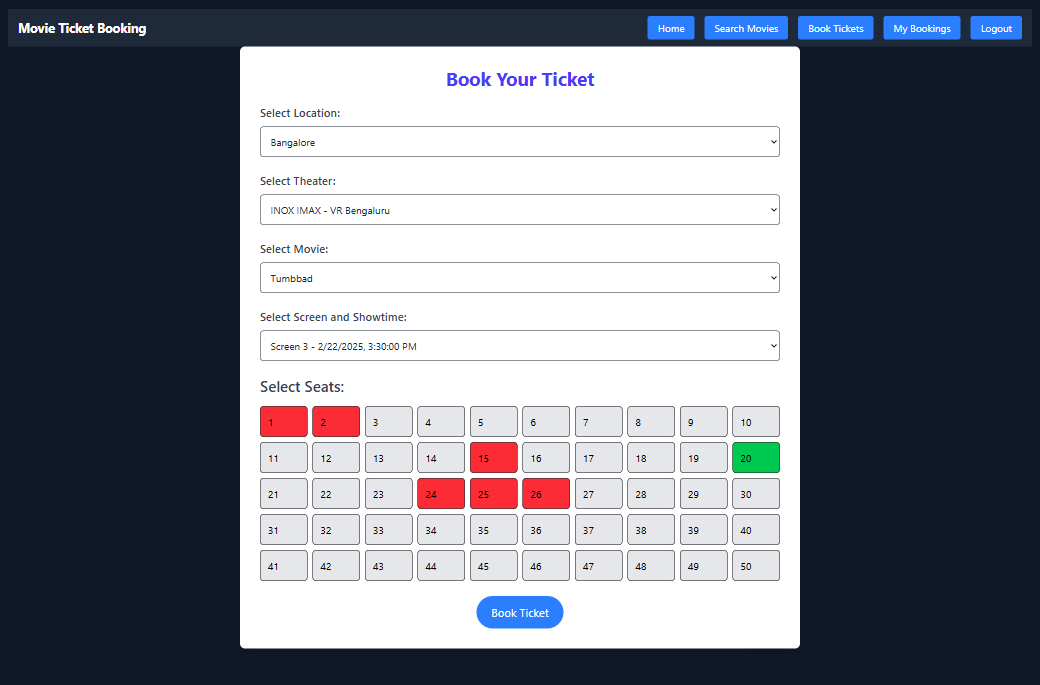
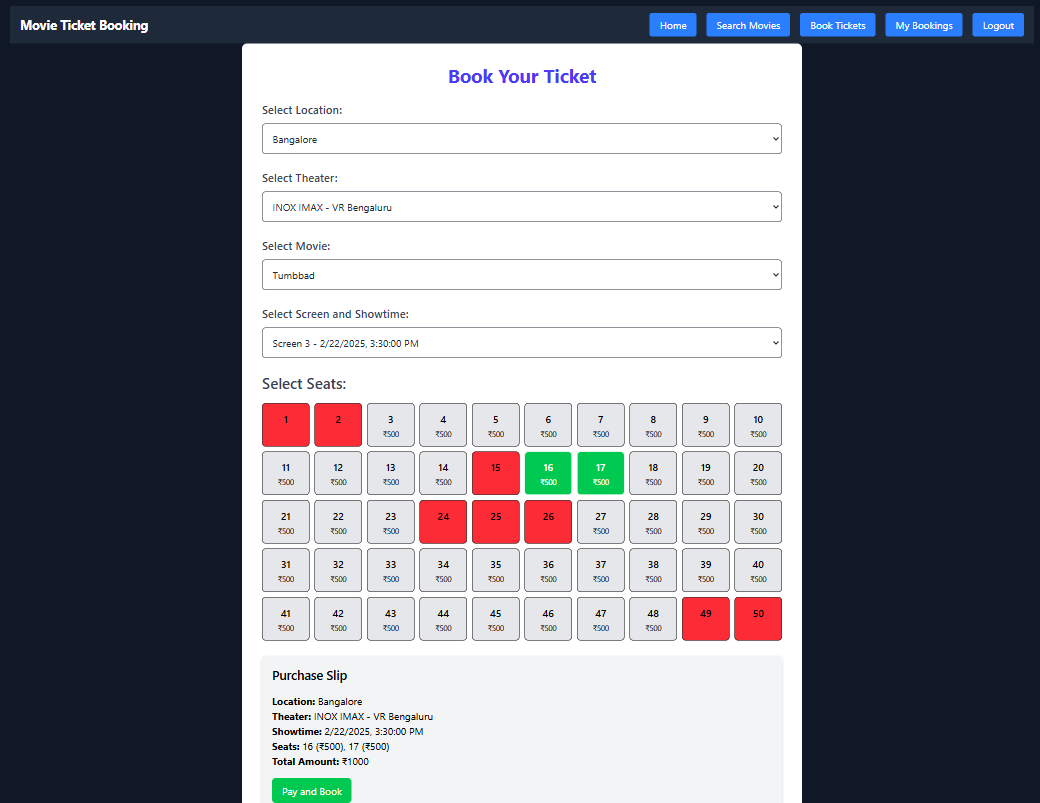
updating the book Ticket Page

diff --git a/client/src/Pages/BookTicket.jsx b/client/src/Pages/BookTicket.jsx
@@ -14,7 +14,7 @@ const BookTicketPage = () => {
   const [selectedMovie, setSelectedMovie] = useState('');
   const [screensAndShowtimes, setScreensAndShowtimes] = useState([]);
   const [selectedShowtime, setSelectedShowtime] = useState('');
-  const [availableSeats, setAvailableSeats] = useState([]);
+  const [availableSeats, setAvailableSeats] = useState([]); 
   const [totalSeats, setTotalSeats] = useState(0);
   const [selectedSeats, setSelectedSeats] = useState([]);
   const [showPurchaseSlip, setShowPurchaseSlip] = useState(false);
@@ -54,12 +54,9 @@ const BookTicketPage = () => {
 // Updated handleShowtimeChange
 const handleShowtimeChange = (showId) => {
   setSelectedShowtime(showId);
-
-  // Find and store the selected showtime details
   const showtimeDetails = screensAndShowtimes
     .flatMap((screen) => screen.showtimes)
     .find((showtime) => showtime.showId === showId);
-
   setSelectedShowtimeDetails(showtimeDetails);
 
   axios.post('/api/bookings/availableSeats', { showId }).then((response) => {
@@ -174,47 +171,70 @@ const handleShowtimeChange = (showId) => {
 
         {/* Step 5: Display All Seats */}
         {availableSeats.length > 0 && (
-          <div className="mb-6">
-            <h2 className="text-2xl font-semibold text-gray-700 mb-4">Select Seats:</h2>
-            <div className="grid grid-cols-10 gap-2">
-              {Array.from({ length: totalSeats }, (_, index) => index + 1).map((seat) => (
-                <div
-                  key={seat}
-                  className={`p-3 border rounded-md ${
-                    selectedSeats.includes(seat)
-                      ? 'bg-green-500'
-                      : availableSeats.includes(seat)
-                      ? 'bg-gray-200'
-                      : 'bg-red-500'
-                  } cursor-pointer`}
-                  onClick={() => availableSeats.includes(seat) && toggleSeatSelection(seat)}
-                >
-                  {seat}
-                </div>
-              ))}
-            </div>
-          </div>
-        )}
+    <div className="mb-6">
+      <h2 className="text-2xl font-semibold text-gray-700 mb-4">Select Seats:</h2>
+      <div className="grid grid-cols-10 gap-2">
+        {Array.from({ length: totalSeats }, (_, index) => {
+          const seatNumber = index + 1;
+          const seatInfo = availableSeats.find(s => s.seat === seatNumber);
+          const isAvailable = !!seatInfo;
+          const isSelected = selectedSeats.includes(seatNumber);
 
-{showPurchaseSlip && (
-  <div className="p-4 bg-gray-100 rounded-md shadow-md mb-6">
-    <h2 className="text-xl font-semibold mb-4">Purchase Slip</h2>
-    <p><strong>Location:</strong> {selectedLocation}</p>
-    <p><strong>Theater:</strong> {theaters.find((t) => t._id === selectedTheater)?.name}</p>
-    <p>
-      <strong>Showtime:</strong> {selectedShowtimeDetails ? 
-      `${new Date(selectedShowtimeDetails.time).toLocaleString()}` : ''}
-    </p>
-    <p><strong>Seats:</strong> {selectedSeats.join(', ')}</p>
-    <p><strong>Total Amount:</strong> ₹{selectedSeats.length * ticketPrice}</p>
-    <button
-      onClick={handleBookTicket}
-      className="bg-green-500 text-white py-2 px-4 rounded-md mt-4"
-    >
-      Pay and Book
-    </button>
-  </div>
-)}
+          return (
+            <div
+              key={seatNumber}
+              className={`p-3 border rounded-md text-center ${
+                isSelected
+                  ? 'bg-green-500 text-white'
+                  : isAvailable
+                  ? 'bg-gray-200 hover:bg-gray-300'
+                  : 'bg-red-500 cursor-not-allowed'
+              } ${isAvailable ? 'cursor-pointer' : ''}`
+              }
+              onClick={() => isAvailable && toggleSeatSelection(seatNumber)}
+            >
+              <div className="font-medium">{seatNumber}</div>
+              {isAvailable && (
+                <div className="text-xs mt-1">₹{seatInfo.price}</div>
+              )}
+            </div>
+          );
+        })}
+      </div>
+    </div>
+  )}
+
+
+{/* // Updated purchase slip */}
+  {showPurchaseSlip && (
+    <div className="p-4 bg-gray-100 rounded-md shadow-md mb-6">
+      <h2 className="text-xl font-semibold mb-4">Purchase Slip</h2>
+      <p><strong>Location:</strong> {selectedLocation}</p>
+      <p><strong>Theater:</strong> {theaters.find((t) => t._id === selectedTheater)?.name}</p>
+      <p>
+        <strong>Showtime:</strong> {selectedShowtimeDetails ? 
+        `${new Date(selectedShowtimeDetails.time).toLocaleString()}` : ''}
+      </p>
+      <p>
+        <strong>Seats:</strong> {selectedSeats.map(seat => {
+          const seatInfo = availableSeats.find(s => s.seat === seat);
+          return `${seat} (₹${seatInfo?.price || 'N/A'})`;
+        }).join(', ')}
+      </p>
+      <p>
+        <strong>Total Amount:</strong> ₹{selectedSeats.reduce((total, seat) => {
+          const seatInfo = availableSeats.find(s => s.seat === seat);
+          return total + (seatInfo?.price || 0);
+        }, 0)}
+      </p>
+      <button
+        onClick={handleBookTicket}
+        className="bg-green-500 text-white py-2 px-4 rounded-md mt-4"
+      >
+        Pay and Book
+      </button>
+    </div>
+  )}
 
 
         {/* Step 7: Proceed to Purchase Button */}

diff --git a/server/controllers/bookingController.js b/server/controllers/bookingController.js
@@ -147,7 +147,6 @@ exports.getUserBookings = async (req, res) => {
 
 
 
-
 // Controller for getting available seats for a showtime
 exports.getAvailableSeats = async (req, res) => {
   const { showId } = req.body;
@@ -166,21 +165,29 @@ exports.getAvailableSeats = async (req, res) => {
       return res.status(404).json({ error: 'Showtime not found' });
     }
 
-    // Find the specific screen and showtime
     let availableSeats = [];
-    let totalSeats = 0; // To count total seats
+    let totalSeats = 0;
 
+    // Iterate through screens to find the correct showtime
     theater.screens.forEach(screen => {
       screen.showtimes.forEach(showtime => {
         if (showtime._id.toString() === showId) {
-          const allSeats = showtime.seatCategories.flatMap(category => category.seats);
           const bookedSeats = showtime.booked || [];
           
-          // Total seats count
-          totalSeats = allSeats.length;
+          // Process each seat category
+          showtime.seatCategories.forEach(category => {
+            const { price, seats } = category;
 
-          // Filter out booked seats to get available ones
-          availableSeats = allSeats.filter(seat => !bookedSeats.includes(seat));
+            // Total seats count
+            totalSeats += seats.length;
+
+            // Filter out booked seats and include seat price
+            seats.forEach(seat => {
+              if (!bookedSeats.includes(seat)) {
+                availableSeats.push({ seat, price });
+              }
+            });
+          });
         }
       });
     });

diff --git a/client/src/Pages/AdminTheater.jsx b/client/src/Pages/AdminTheater.jsx
@@ -15,7 +15,7 @@ const AdminTheater = () => {
   useEffect(() => {
     const fetchTheaters = async () => {
       try {
-        const response = await axios.get('/api/theaters/getall');
+        const response = await axios.post('/api/theaters/getall');
         setTheaters(response.data);
       } catch (error) {
         console.error('Error fetching theaters:', error);
@@ -50,7 +50,7 @@ const AdminTheater = () => {
       }
       setFormData({ name: '', location: '', screens: [] }); // Clear the form
       // Refresh theater list after submit
-      const response = await axios.get('/api/theaters/getall');
+      const response = await axios.post('/api/theaters/getall');
       setTheaters(response.data);
     } catch (error) {
       console.error('Error submitting form:', error);

diff --git a/server/routes/theaterRoutes.js b/server/routes/theaterRoutes.js
@@ -17,10 +17,10 @@ router.post("/addScreen", isAuthenticated, isAdmin, addScreen);
 router.post("/addShowtime", isAuthenticated, isAdmin, addShowtime);
 
 // Get all theaters 
-router.get("/getall", getTheaters);
+router.post("/getall", getTheaters);
 
 // Get a theater by ID  
-router.get("/theaters/:id", getTheaterById);
+router.post("/theaters/:id", getTheaterById);
 
 // Search theaters by location
 router.post("/search/TheaterBylocation", searchByLocation);

diff --git a/README.md b/README.md
@@ -50,7 +50,7 @@ Here are some screenshots of the MovieTicketBookingApp to give you a glimpse of 
 ![Ticket Booking](ticketBook.png)
 
 ### User - Login
-[Login](login.png)
+[Login](login1.png)
 
 ### User - Register
 ![Register User](register.png)
